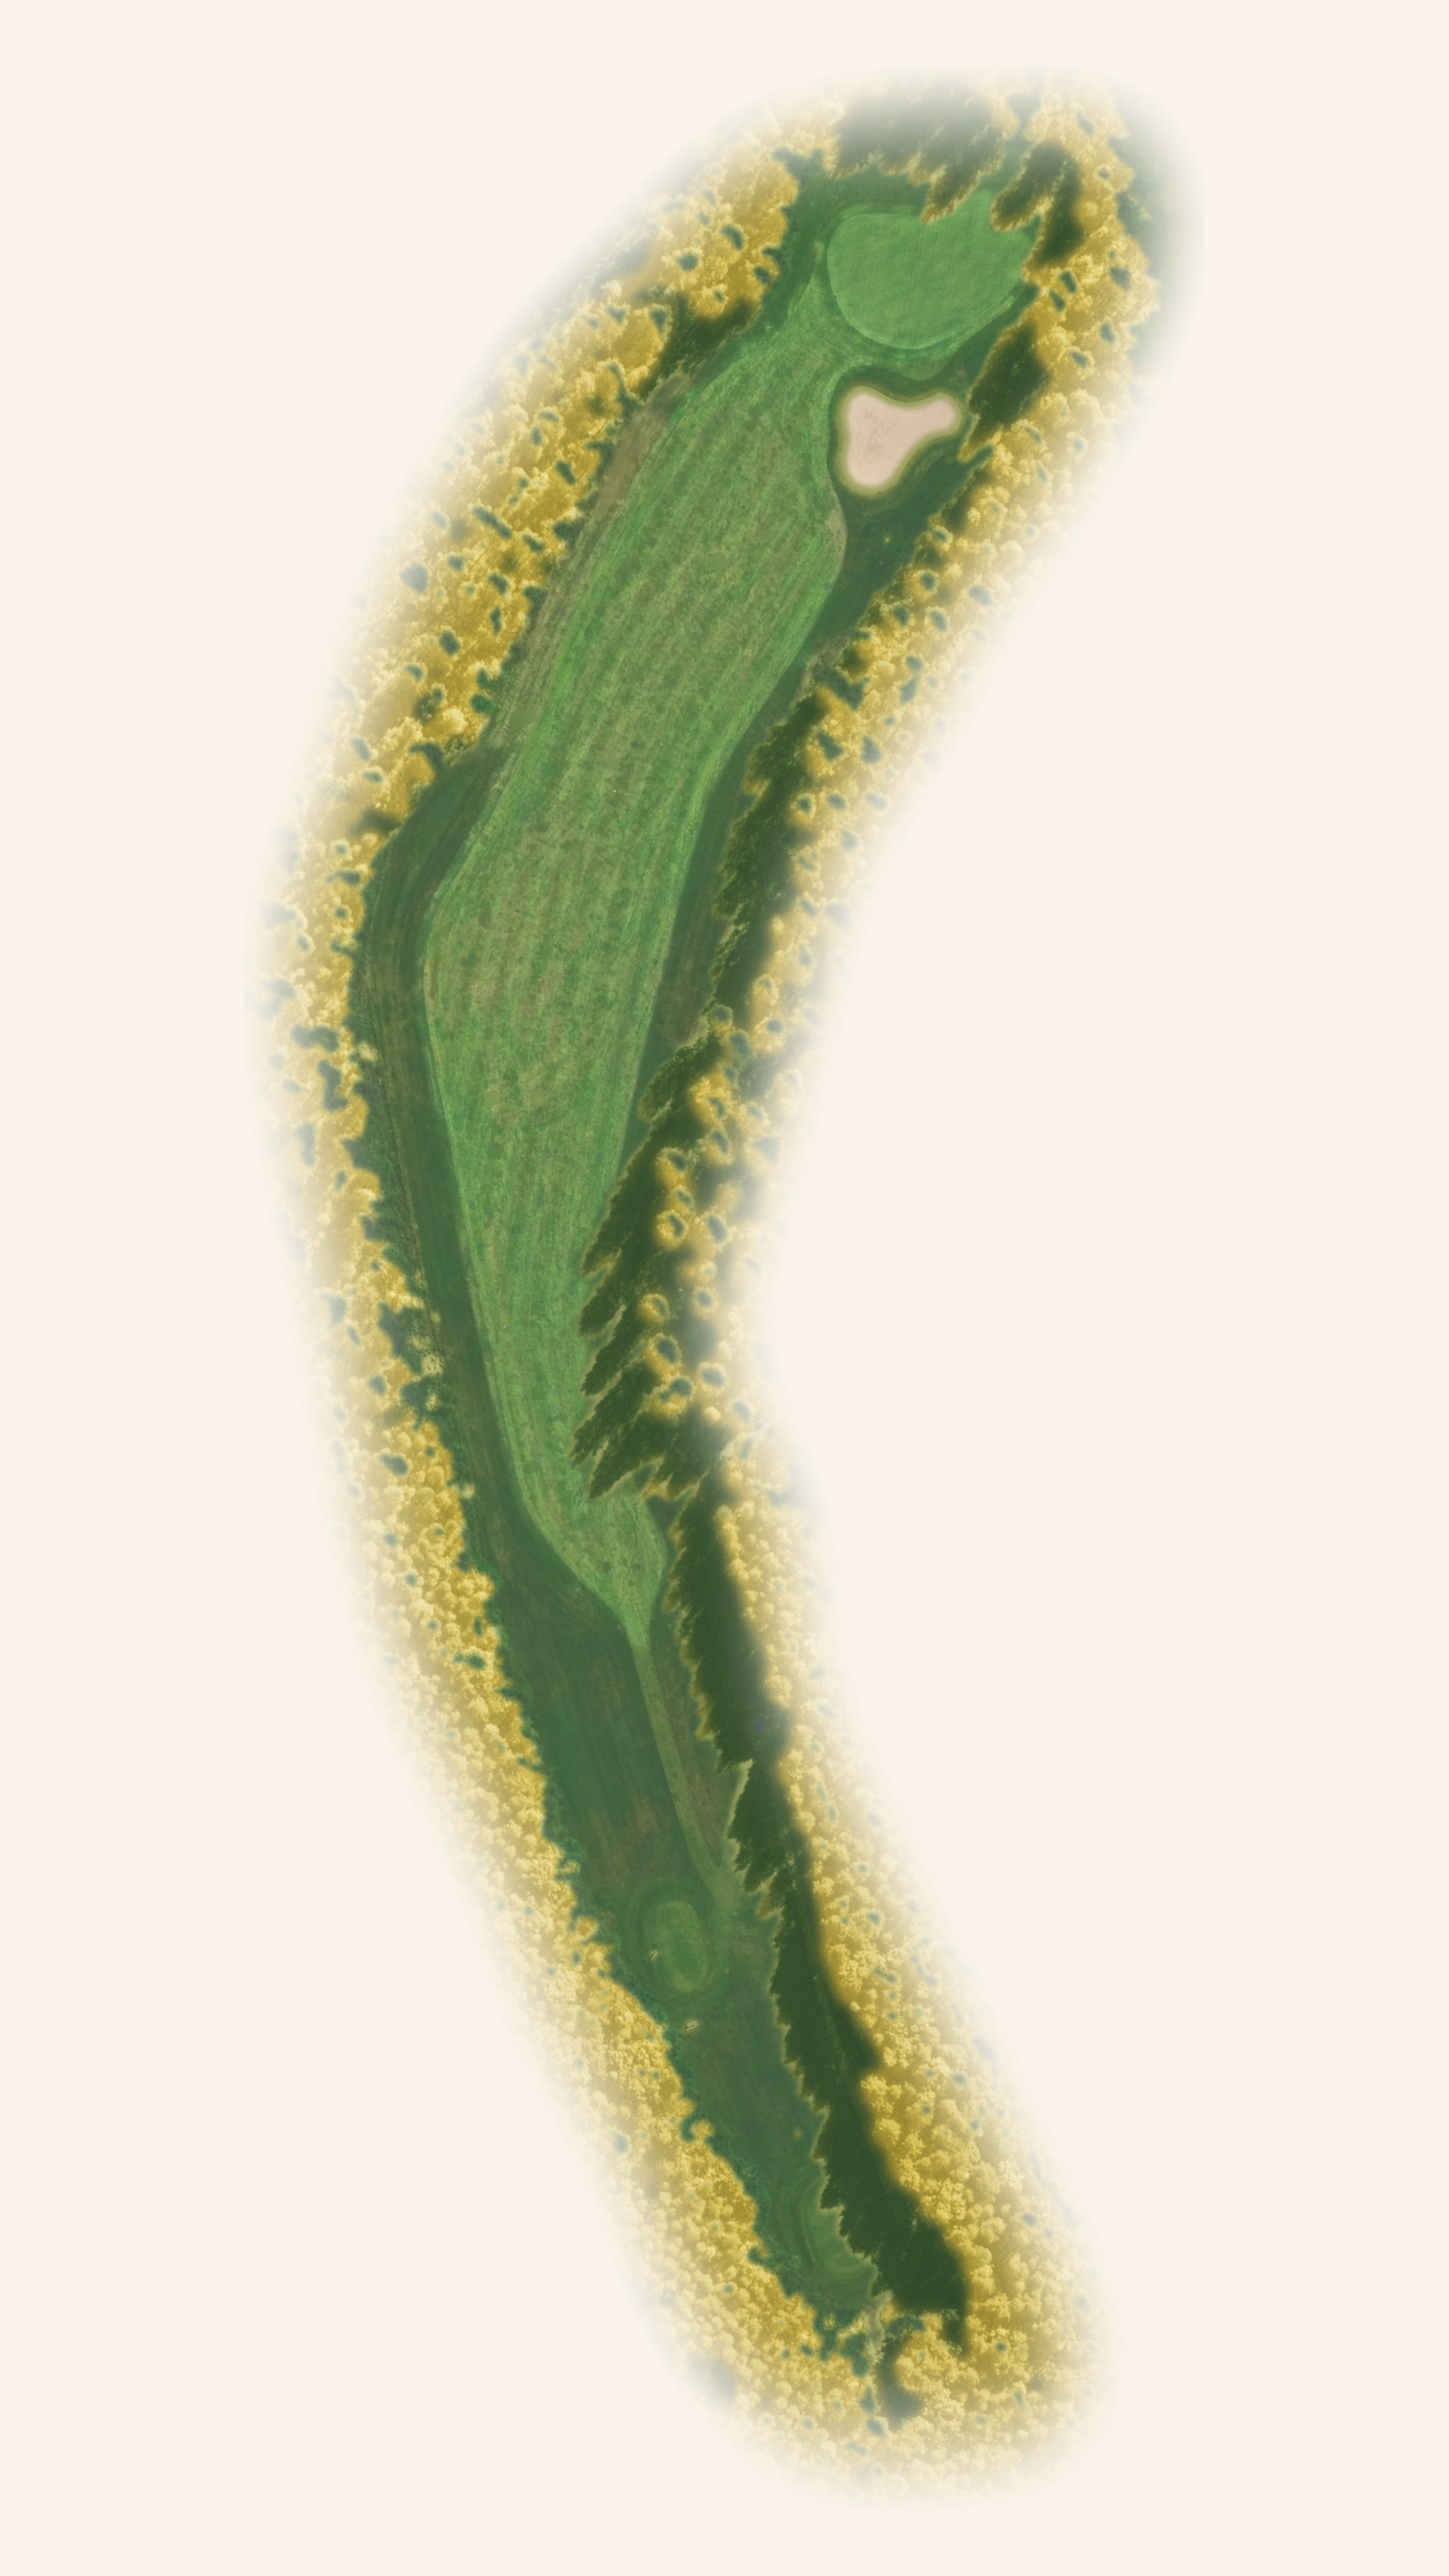
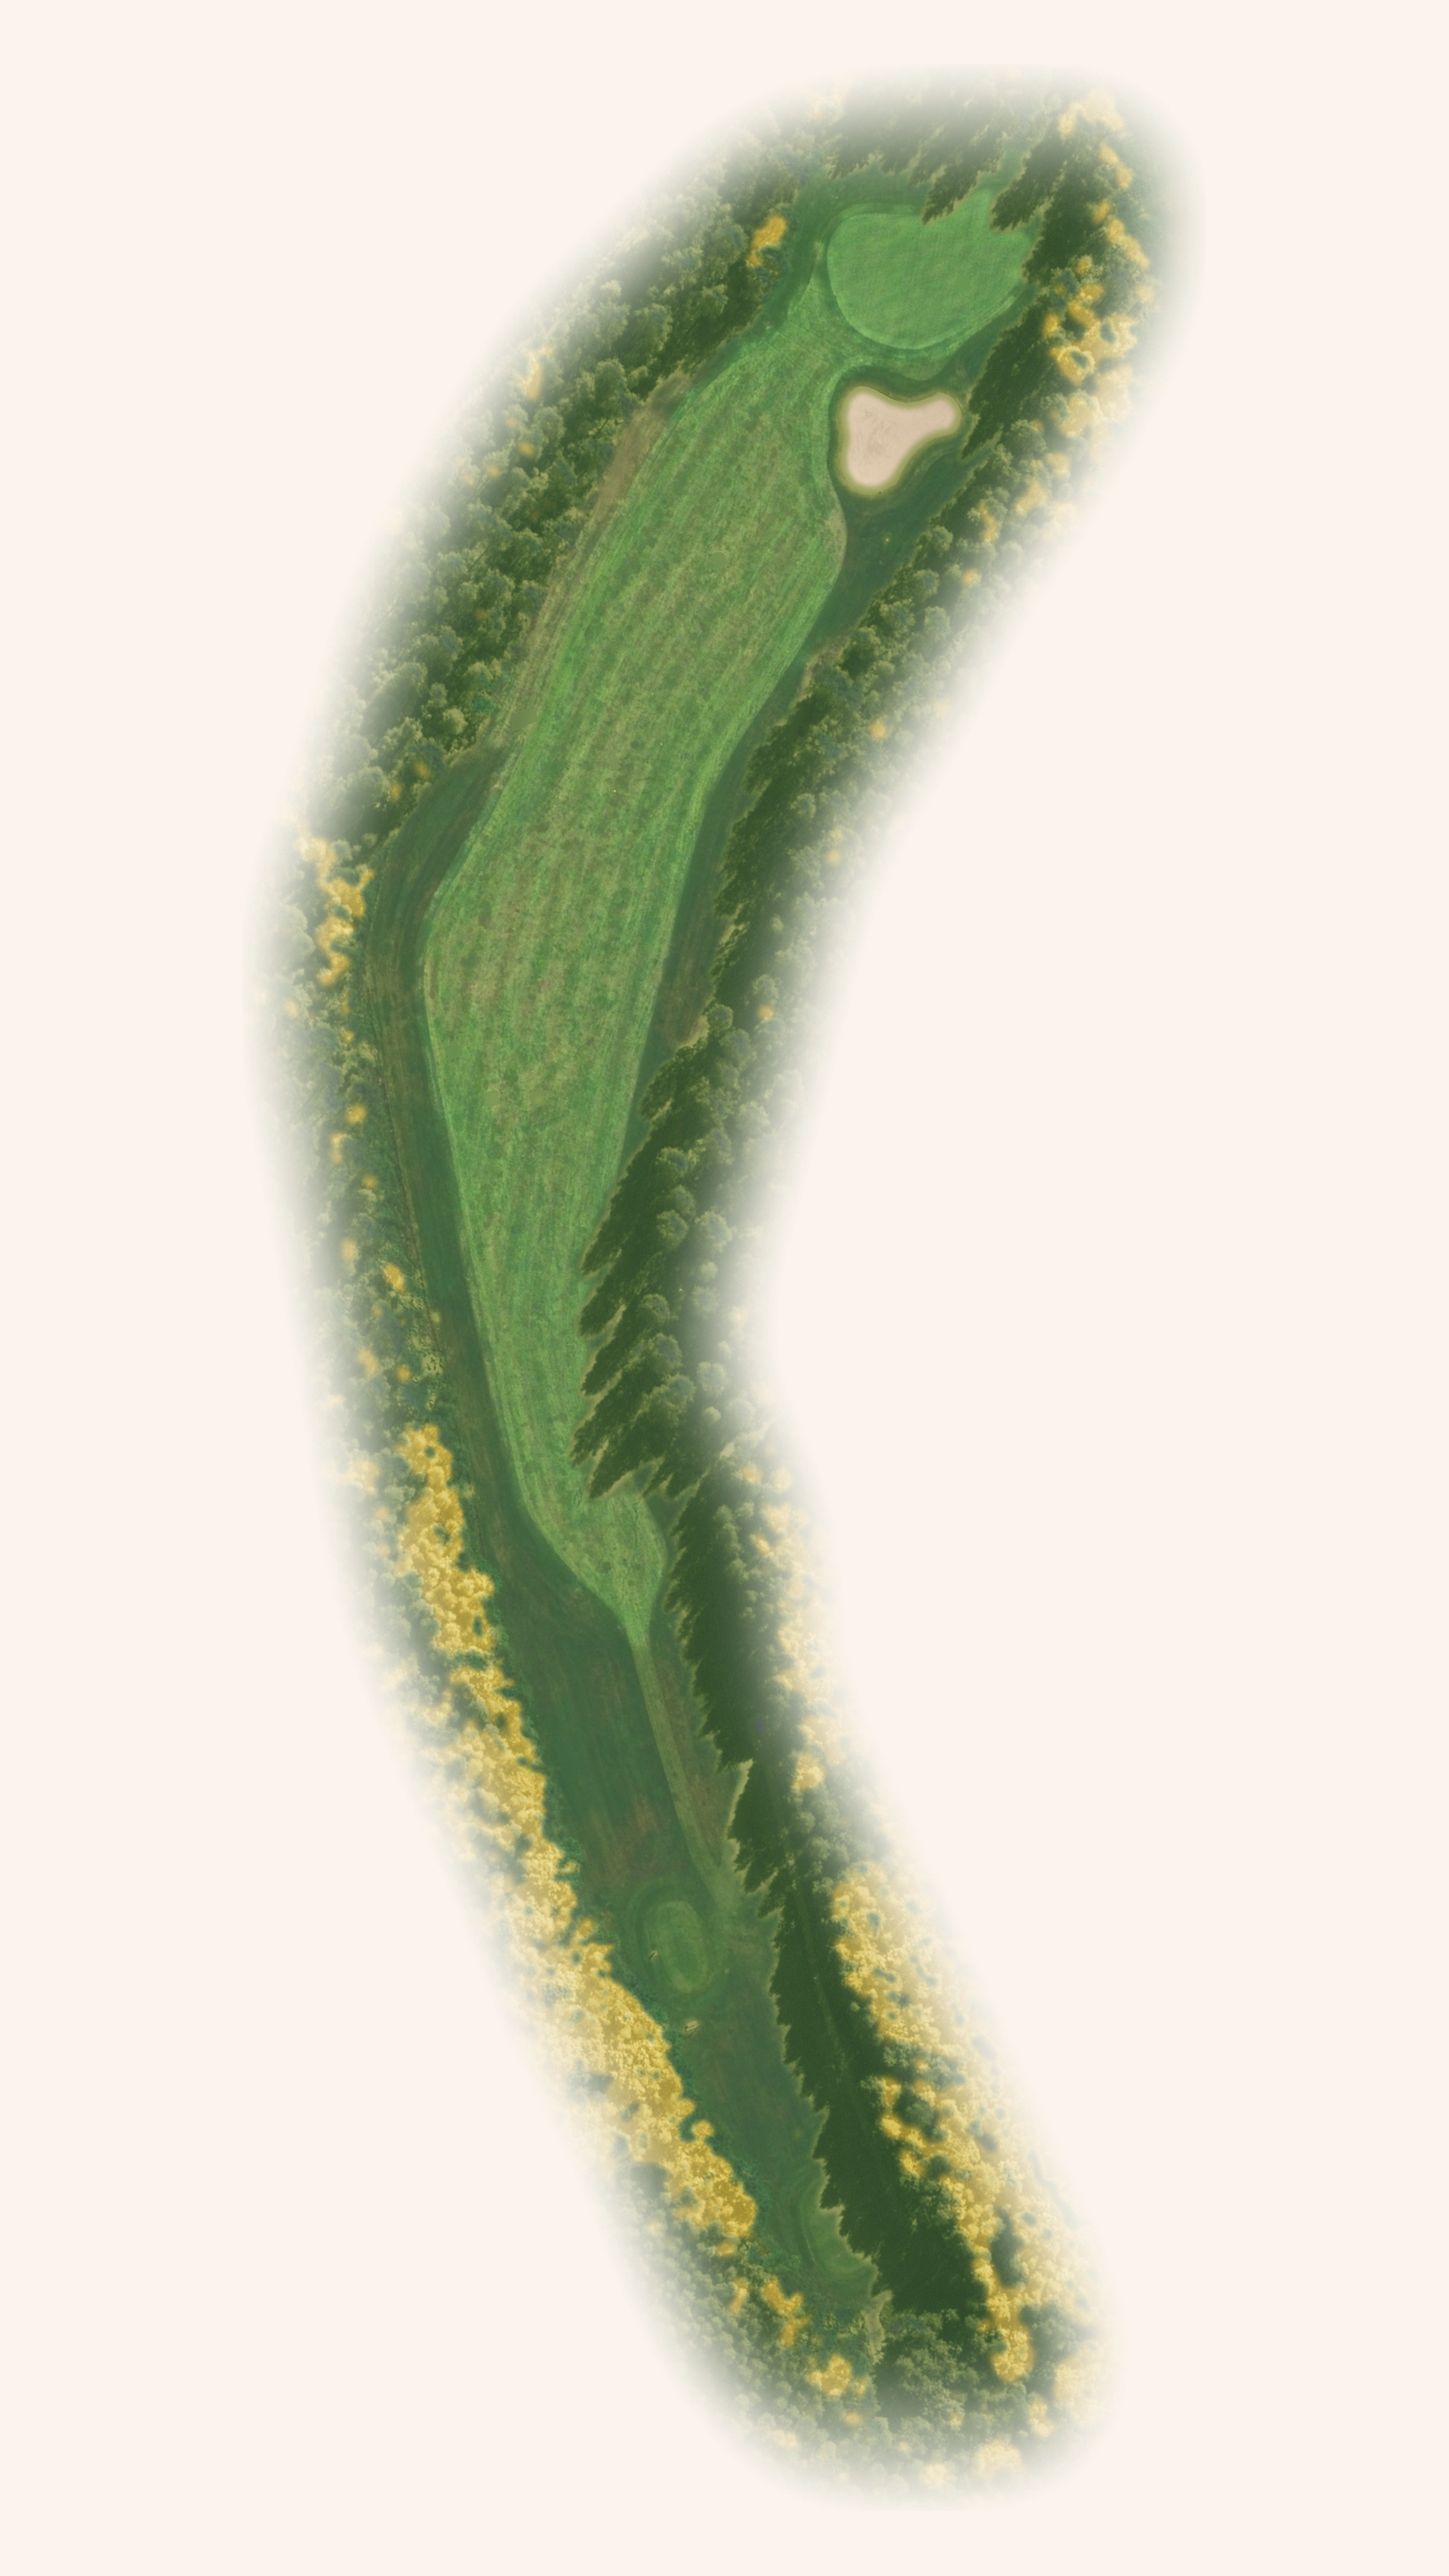
Fotostil: fast gräns för lövträd så att granhål inte blir gula
Claude-Session: https://claude.ai/code/session_01KqG1GUsb2FjWm4iUZSnPua

Changed region(s): [[0.375, 0.0312, 0.8125, 0.9688], [0.1875, 0.0312, 0.5938, 0.75], [0.4688, 0.6562, 0.5, 0.6875]]

diff --git a/golfholes/render/foto.py b/golfholes/render/foto.py
@@ -92,6 +92,7 @@ def _ramp(L: np.ndarray, stopp) -> np.ndarray:
     return np.stack([np.interp(L, xs, [c[i] for c in stopp]) for i in range(3)], -1) / 255.0
 
 
+LOV_GRANS = 1.8  # nära-IR/grönt; Glasriket: hål 3 ~25 % av skogen över, granhålet 14 ~15 %
 GRAN = [(22, 38, 26), (44, 72, 40), (86, 112, 58), (150, 160, 96)]
 LOV = [(70, 64, 24), (168, 146, 44), (232, 204, 84), (250, 238, 168)]
 
@@ -106,9 +107,10 @@ def _host(rgb: np.ndarray, mt: dict, skog: np.ndarray, gras: np.ndarray, klippt:
     x = x + lyft * (1 - x)
     # löv eller barr: lövträd reflekterar mer nära-IR i förhållande till grönt
     lov = medel(mt["N"] / (mt["G"] + 1), 4)
-    grans = np.percentile(lov[skog], 40) if skog.any() else 0
+    # fast gräns (inte andel per hål): ett granhål som 14 ska inte bli gult för att
+    # hålet råkar sakna björk. Solbelysta lövkronor har högst kvot.
     sk = _mjuk(skog.astype(np.float32), 2)[..., None]
-    lovtrad = np.clip(_mjuk((skog & (lov > grans)).astype(np.float32), 6) * 1.3, 0, 1)[..., None]
+    lovtrad = np.clip(_mjuk((skog & (lov > LOV_GRANS)).astype(np.float32), 3) * 1.3, 0, 1)[..., None]
     L = np.clip((lum - 0.04) / 0.40, 0, 1) ** 0.7
     trad = _ramp(L, GRAN) * (1 - 0.92 * lovtrad) + _ramp(L, LOV) * 0.92 * lovtrad
     x = x * (1 - 0.92 * sk) + trad * 0.92 * sk
